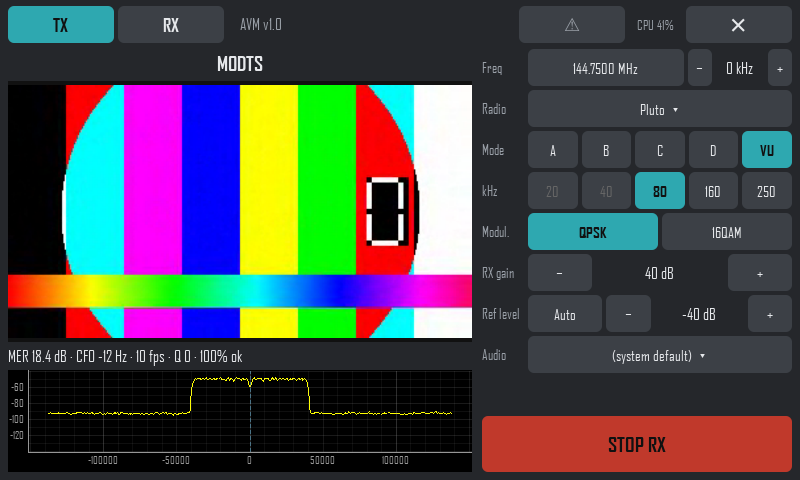
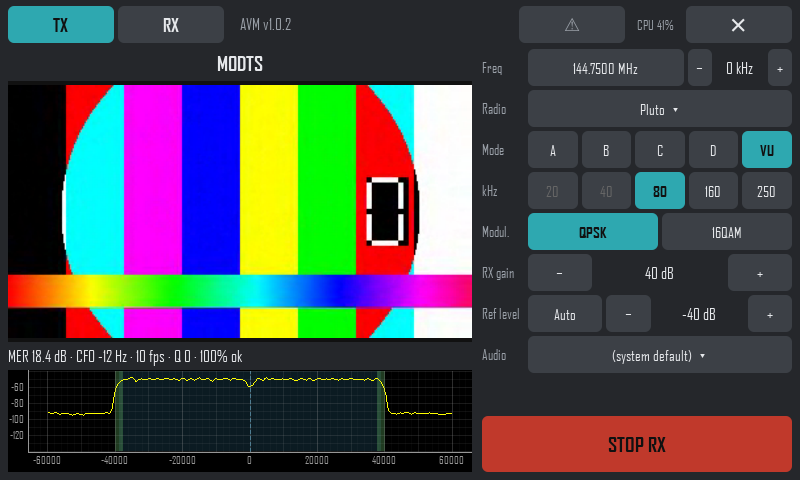
AVM v1.0.3: tuning indicator follows automatic width changes; snapshots fixed

Changed region(s): [[0.0312, 0.75, 0.5938, 0.9688]]

diff --git a/avm/touch_rx_page.py b/avm/touch_rx_page.py
@@ -256,6 +256,8 @@ class RxPage(QtWidgets.QWidget):
     # ------------------------------------------------------------------
     def _apply_to_engine(self):
         tw.enforce_mode_bandwidth(self.mode, self.bw)
+        # after the width check: it can change the width (e.g. VU needs 80 kHz+)
+        self._update_tuning_bar()
         e = self.engine
         # how the Pluto is reached: the route picked in the radio list, else
         # its usual network address (pluto_soapy_sink falls back to a search)
@@ -370,8 +372,7 @@ class RxPage(QtWidgets.QWidget):
             zone.setRegion((at - pull, at + pull))
 
     def _changed(self, *_):
-        self._update_tuning_bar()
-        self._apply_to_engine()
+        self._apply_to_engine()  # (updates the tuning indicator too)
         if self.is_running():
             self.run.set_state("pending")
 

diff --git a/avm/avm_version.py b/avm/avm_version.py
@@ -6,7 +6,7 @@ NAME = "AVM"
 FULL_NAME = "Audio Video Modem"
 # 1.0.BUILD: BUILD goes up by one each release -- tools/make_release.py bumps
 # it (and writes it here) every time it builds the release folder.
-BUILD = 2
+BUILD = 3
 VERSION = f"1.0.{BUILD}"
 
 SHORT_TITLE = f"{NAME} v{VERSION}"                   # e.g. top bar

diff --git a/CHANGES.md b/CHANGES.md
@@ -3,6 +3,10 @@
 Newest first. Each release adds a section; AVM's Update button shows the
 ones newer than the version you have.
 
+## 1.0.3 (2026-10-07)
+- RX tuning indicator also follows automatic width changes (e.g. switching to VU)
+- README: experimental release, designed for HF and unstable paths, screenshots fixed
+
 ## 1.0.2 (2026-10-07)
 - Update check compares version numbers (no GitHub API, never offers an older version) and shows what's new
 - CHANGES.md lists each release
